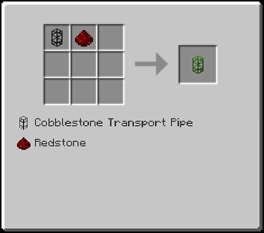
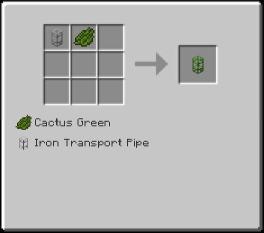
fixed recipe conflict
fixes: #35
milestone: 1.0.6.0

diff --git a/common/abo/ABO.java b/common/abo/ABO.java
@@ -190,8 +190,8 @@ public class ABO {
 			pipeItemsCompactor = createPipe(pipeItemsCompactorID, PipeItemsCompactor.class, "Compactor Pipe", 1, BuildCraftTransport.pipeItemsStone,
 					Block.pistonBase, null);
 
-			pipeItemsInsertion = createPipe(pipeItemsInsertionID, PipeItemsInsertion.class, "Insertion Pipe", 1, BuildCraftTransport.pipeItemsCobblestone,
-					Item.redstone, null);
+			pipeItemsInsertion = createPipe(pipeItemsInsertionID, PipeItemsInsertion.class, "Insertion Pipe", 1, BuildCraftTransport.pipeItemsIron,
+					new ItemStack(Item.dyePowder, 1, 2), null);
 
 			pipeItemsExtraction = createPipe(pipeItemsExtractionID, PipeItemsExtraction.class, "Extraction Transport Pipe", 1,
 					BuildCraftTransport.pipeItemsWood, Block.planks, null);

diff --git a/README.md b/README.md
@@ -67,7 +67,7 @@
 
    * Recipe:
 
-      ![CobblestoneTransportPipe Redstone](recipes/InsertionTransportPipe.png)
+      ![IronTransportPipe CactusGreen](recipes/InsertionTransportPipe.png)
 
 
 
@@ -241,6 +241,10 @@
 ---------------------------------------------------------------------------------
 
 ## Changelog:
+
+* 1.0.6
+  - fixed recipe conflict (Insertion Pipe)
+    new recipe for Insertion Pipe: Cactus Green + Iron Transport Pipe
 
 * 1.0.5
   - renamed Diamond Conductive Pipe to Distribution Conductive Pipe due to the fact
